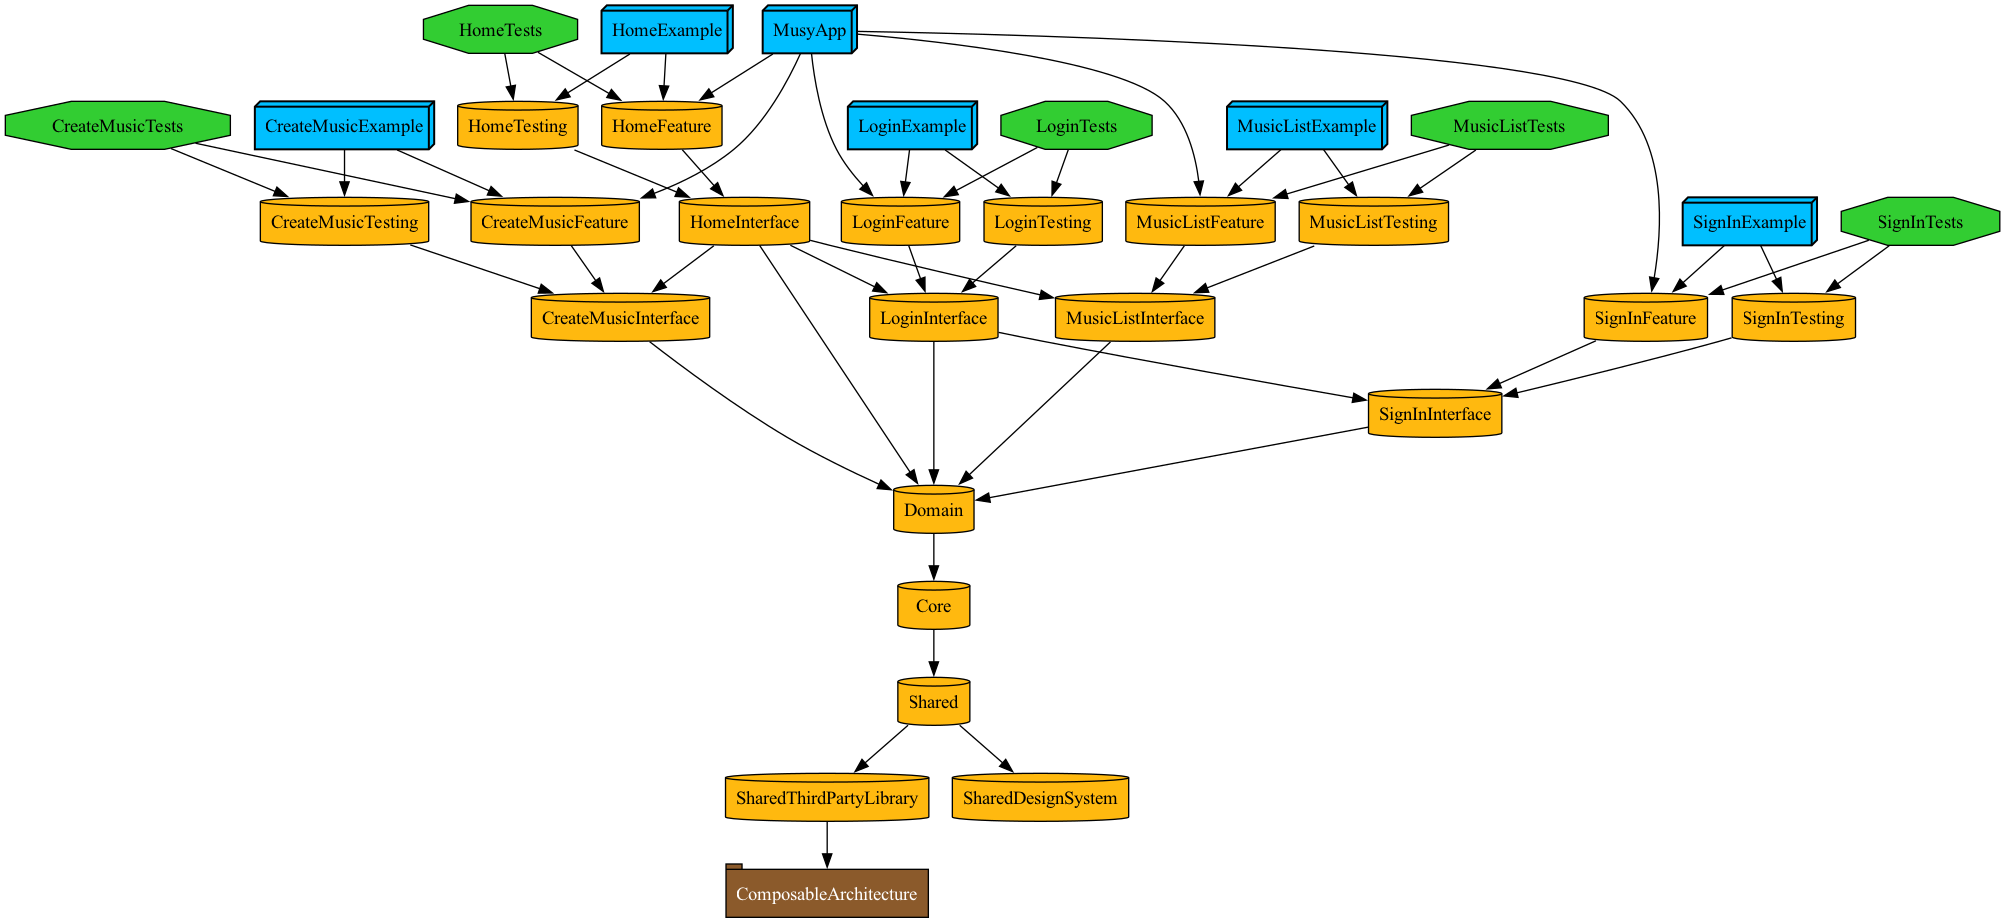
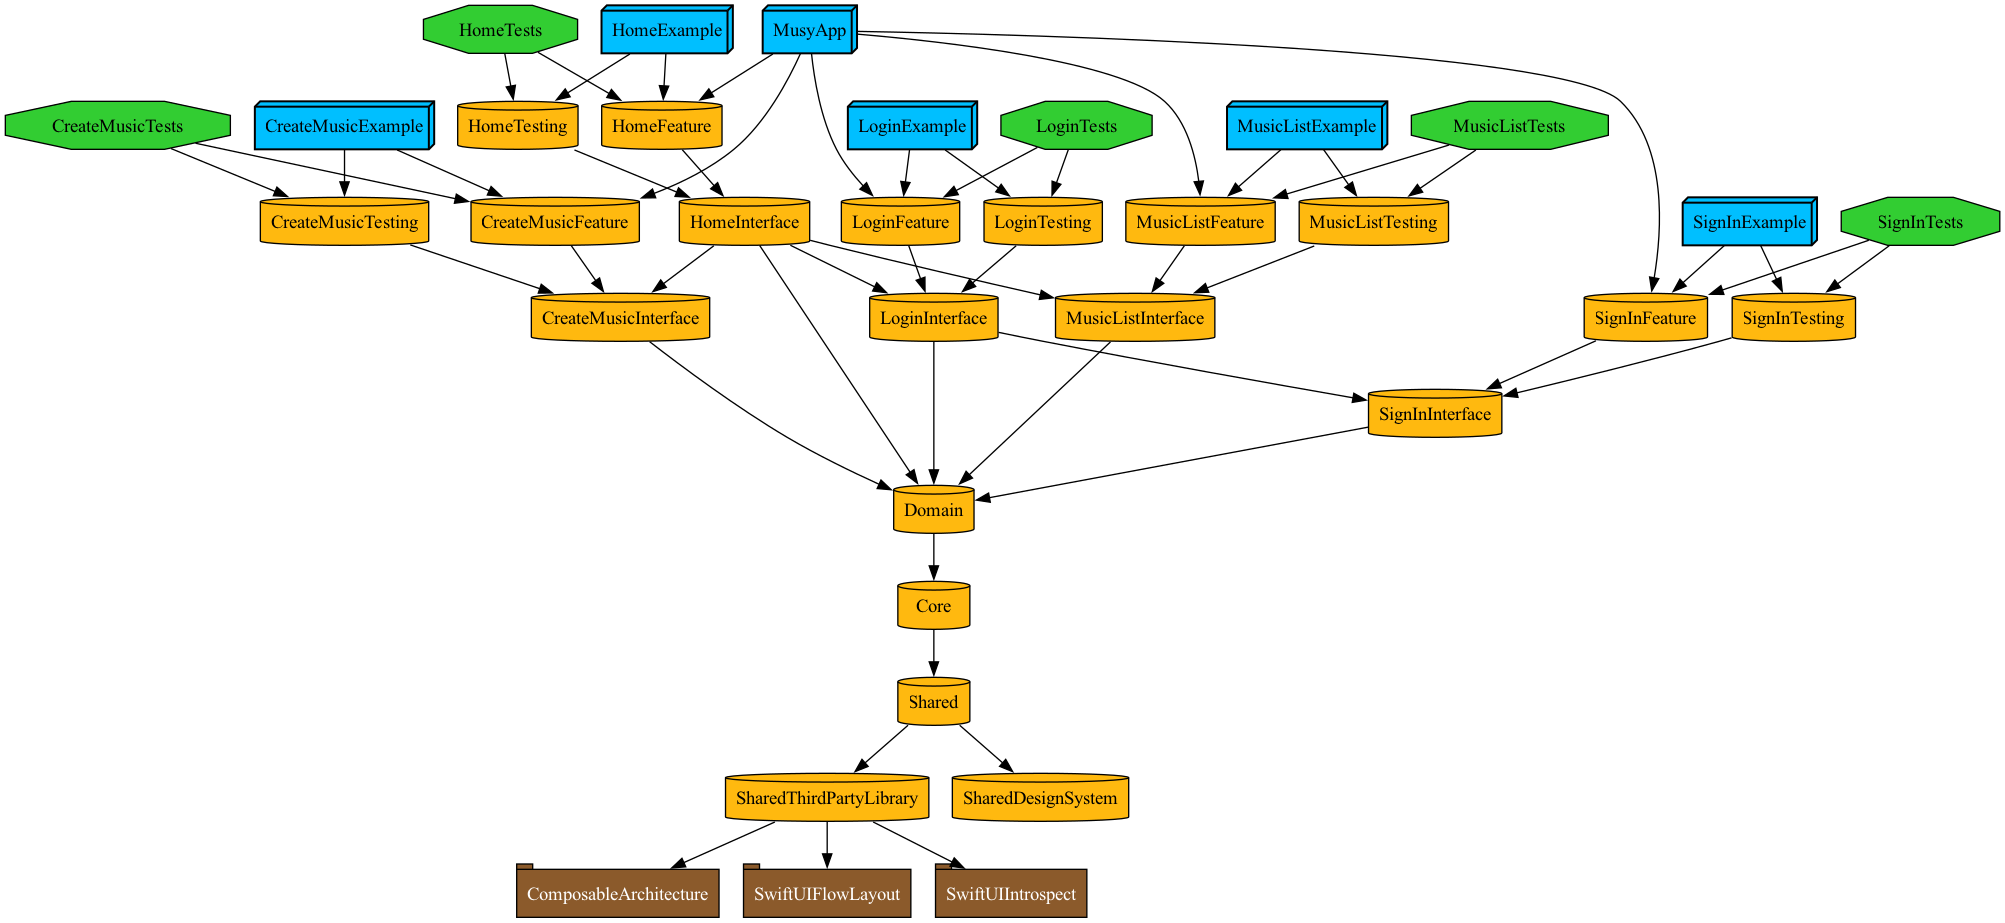
CreatMusicFeature 구현

Changed region(s): [[0.2474, 0.9101, 0.5566, 1.0]]

diff --git a/FeatureCreateMusic/Feature/Sources/CreateMusicView.swift b/FeatureCreateMusic/Feature/Sources/CreateMusicView.swift
@@ -7,32 +7,46 @@
 
 import SwiftUI
 import CreateMusicInterface
-import CreateMusicTesting
 import Domain
 import Shared
 import SharedDesignSystem
 import SharedThirdPartyLibrary
 import ComposableArchitecture
 import SwiftUIFlowLayout
+import SwiftUIIntrospect
 
 public struct CreateMusicView: View, CreateMusciViewInterface {
-    private let store: StoreOf<CreateMusicFeature>
+    @Bindable var store: StoreOf<CreateMusicFeature>
+    @State private var minute: Int = 2
+    @State private var second: Int = 30
     
     public init(store: StoreOf<CreateMusicFeature>) {
         self.store = store
     }
     
     public var body: some View {
-        VStack(alignment: .leading, spacing: 36) {
-            title
-                .padding(.top, 120)
+        Group {
+            switch store.phase {
+            case .tag:
+                tagSelection
+                    .transition(
+                        .move(edge: .bottom)
+                        .combined(with: .blurReplace)
+                        .combined(with: .opacity))
+            case .length:
+                lengthSelection
+                    .transition(
+                        .move(edge: .bottom)
+                        .combined(with: .blurReplace)
+                        .combined(with: .opacity))
+            case .confirm:
+                EmptyView()
+            case .complete:
+                EmptyView()
+            }
             
-            genre
-            
-            intstrument
-            
-            Spacer()
         }
+        .padding(.top, 120)
         .padding(.horizontal, 32)
         .background {
             LinearGradient.musyBright
@@ -40,7 +54,24 @@ public struct CreateMusicView: View, CreateMusciViewInterface {
         .ignoresSafeArea()
     }
     
-    private var title: some View {
+    private var tagSelection: some View {
+        VStack(spacing: 36) {
+            tagTitle
+            
+            genre
+            
+            intstrument
+            
+            Spacer()
+            
+            nextButton(title: "다음으로") {
+                store.send(.nextButtonTapped, animation: .smooth(duration: 0.7))
+            }
+            .padding(.bottom, 72)
+        }
+    }
+    
+    private var tagTitle: some View {
         HStack {
             VStack (alignment: .leading, spacing: 10) {
                 Text("태그 선정하기")
@@ -114,10 +145,128 @@ public struct CreateMusicView: View, CreateMusciViewInterface {
             .padding(.bottom, -4)
         }
     }
+    
+    private var lengthSelection: some View {
+        VStack(spacing: 0) {
+            lengthTitle
+            
+            Spacer()
+            
+            lengthList
+            
+            Spacer()
+            
+            nextButton(title: "선택완료") {
+                store.send(.lengthDoneButtonTapped, animation: .smooth)
+            }
+            .padding(.bottom, 72)
+        }
+    }
+    
+    private var lengthTitle: some View {
+        HStack {
+            VStack(alignment: .leading, spacing: 10) {
+                Text("길이 선정하기")
+                    .font(.musy(weight: .medium, size: 24))
+                
+                Text("이제 마지막 단계예요, 원하시는 길이를 선정해주세요")
+                    .font(.musy(weight: .light, size: 14))
+            }
+            .foregroundStyle(.white)
+            
+            Spacer()
+        }
+    }
+    
+    private var lengthList: some View {
+        VStack {
+            Spacer(minLength: 60)
+            
+            HStack(spacing: 0) {
+                Picker("", selection: $minute) {
+                    ForEach(1..<10) { minute in
+                        Text(String(format: "%02d", minute))
+                            .font(.musy(weight: .medium, size: 20))
+                            .foregroundStyle(.white)
+                    }
+                }
+                .pickerStyle(.wheel)
+                .scaleEffect(2.5)
+                .introspect(.picker(style: .wheel), on: .iOS(.v17)) { picker in
+                    picker.subviews[1].backgroundColor = UIColor.clear
+                }
+                .frame(width: 100)
+                
+                Text(":")
+                    .font(.musy(weight: .medium, size: 48))
+                    .foregroundStyle(.white)
+                
+                Picker("", selection: $second) {
+                    ForEach(0..<60) { second in
+                        Text("\(second)")
+                            .font(.musy(weight: .medium, size: 20))
+                            .foregroundStyle(.white)
+                    }
+                }
+                .pickerStyle(.wheel)
+                .scaleEffect(2.5)
+                .introspect(.picker(style: .wheel), on: .iOS(.v17)) { picker in
+                    picker.subviews[1].backgroundColor = UIColor.clear
+                }
+                .frame(width: 100)
+            }
+            .background {
+                VStack(spacing: 72) {
+                    LinearGradient(
+                        gradient: Gradient(
+                            colors: [
+                                .musyRed,
+                                .white
+                            ]),
+                        startPoint: .leading,
+                        endPoint: .trailing)
+                    .frame(height: 1)
+                    
+                    LinearGradient(
+                        gradient: Gradient(
+                            colors: [
+                                .musyRed,
+                                .white
+                            ]),
+                        startPoint: .leading,
+                        endPoint: .trailing)
+                    .frame(height: 1)
+                }
+                .padding(.horizontal, 20)
+            }
+        }
+        .frame(height: 260)
+        .clipped()
+        .padding(.bottom, 60)
+    }
+    
+    @ViewBuilder
+    private func nextButton(
+        title: String,
+        action: @escaping () -> Void) -> some View {
+            Button(action: action) {
+                Text(title)
+                    .font(.musy(weight: .medium, size: 16))
+                    .foregroundStyle(.white)
+                    .padding(.vertical, 8)
+                    .padding(.horizontal, 16)
+                    .background {
+                        RoundedRectangle(cornerRadius: 24, style: .continuous)
+                            .fill(.musyRed.opacity(0.82))
+                    }
+            }
+        }
 }
 
 #Preview {
     CreateMusicView(store: .init(initialState: .init(), reducer: {
-        CreateMusicFeature.preview
+        CreateMusicFeature(reducer: .init({ state, action in
+            return .none
+        }))
     }))
 }

diff --git a/Project.swift b/Project.swift
@@ -24,7 +24,8 @@ let thirdPartyLibraryTarget = Target.target(
     sources: ["Shared/ThirdPartyLibrary/Sources/**"],
     dependencies: [
         .package(product: "ComposableArchitecture", type: .macro),
-        .package(product: "SwiftUIFlowLayout")
+        .package(product: "SwiftUIFlowLayout"),
+        .package(product: "SwiftUIIntrospect")
     ])
 
 let sharedTarget = Target.target(
@@ -191,7 +192,8 @@ let project = Project(
     name: "Musy",
     packages: [
         .remote(url: "https://github.com/pointfreeco/swift-composable-architecture", requirement: .upToNextMajor(from: "1.10.1")),
-        .remote(url: "https://github.com/globulus/swiftui-flow-layout", requirement: .upToNextMajor(from: "1.0.4"))
+        .remote(url: "https://github.com/globulus/swiftui-flow-layout", requirement: .upToNextMajor(from: "1.0.4")),
+        .remote(url: "https://github.com/siteline/swiftui-introspect", requirement: .upToNextMajor(from: "1.1.4"))
     ],
     targets: featureInterfaces +
     feautureTesting +

diff --git a/FeatureCreateMusic/Interface/Sources/CreateMusicFeatureInterface.swift b/FeatureCreateMusic/Interface/Sources/CreateMusicFeatureInterface.swift
@@ -15,6 +15,8 @@ public struct CreateMusicFeature {
     @ObservableState
     public struct State: Equatable {
         public var music: Music = .init(memberId: .init())
+        public var phase: CreateMusicPhase = .tag
+        public var second: Int = 150
         
         public init() {}
     }
@@ -22,6 +24,11 @@ public struct CreateMusicFeature {
     public enum Action {
         case genreTagButtonTapped(Music.Genre)
         case instrumentTagButtonTapped(Music.Instrument)
+        case nextButtonTapped
+        case lengthDoneButtonTapped
+        case completeButtonTapped
+        case moveMusicListButtonTapped
+        case setLength(Int)
     }
     
     private let reducer: Reduce<State, Action>
@@ -32,5 +39,14 @@ public struct CreateMusicFeature {
     
     public var body: some ReducerOf<Self> {
         reducer
+    }
+}
+
+extension CreateMusicFeature {
+    public enum CreateMusicPhase {
+        case tag
+        case length
+        case confirm
+        case complete
     }
 }

diff --git a/FeatureCreateMusic/Feature/Sources/CreateMusicFeature.swift b/FeatureCreateMusic/Feature/Sources/CreateMusicFeature.swift
@@ -26,6 +26,23 @@ extension CreateMusicFeature {
                 state.music.instruments.insert(instrument)
                 print(state.music.instruments)
                 return .none
+            case .nextButtonTapped:
+                guard !state.music.instruments.isEmpty else {
+                    return .none
+                }
+                state.phase = .length
+                return .none
+            case .lengthDoneButtonTapped:
+                state.phase = .confirm
+                return .none
+            case .completeButtonTapped:
+                state.phase = .complete
+                return .none
+            case .moveMusicListButtonTapped:
+                return .none
+            case .setLength(let length):
+                state.second = length
+                return .none
             }
         }
         
